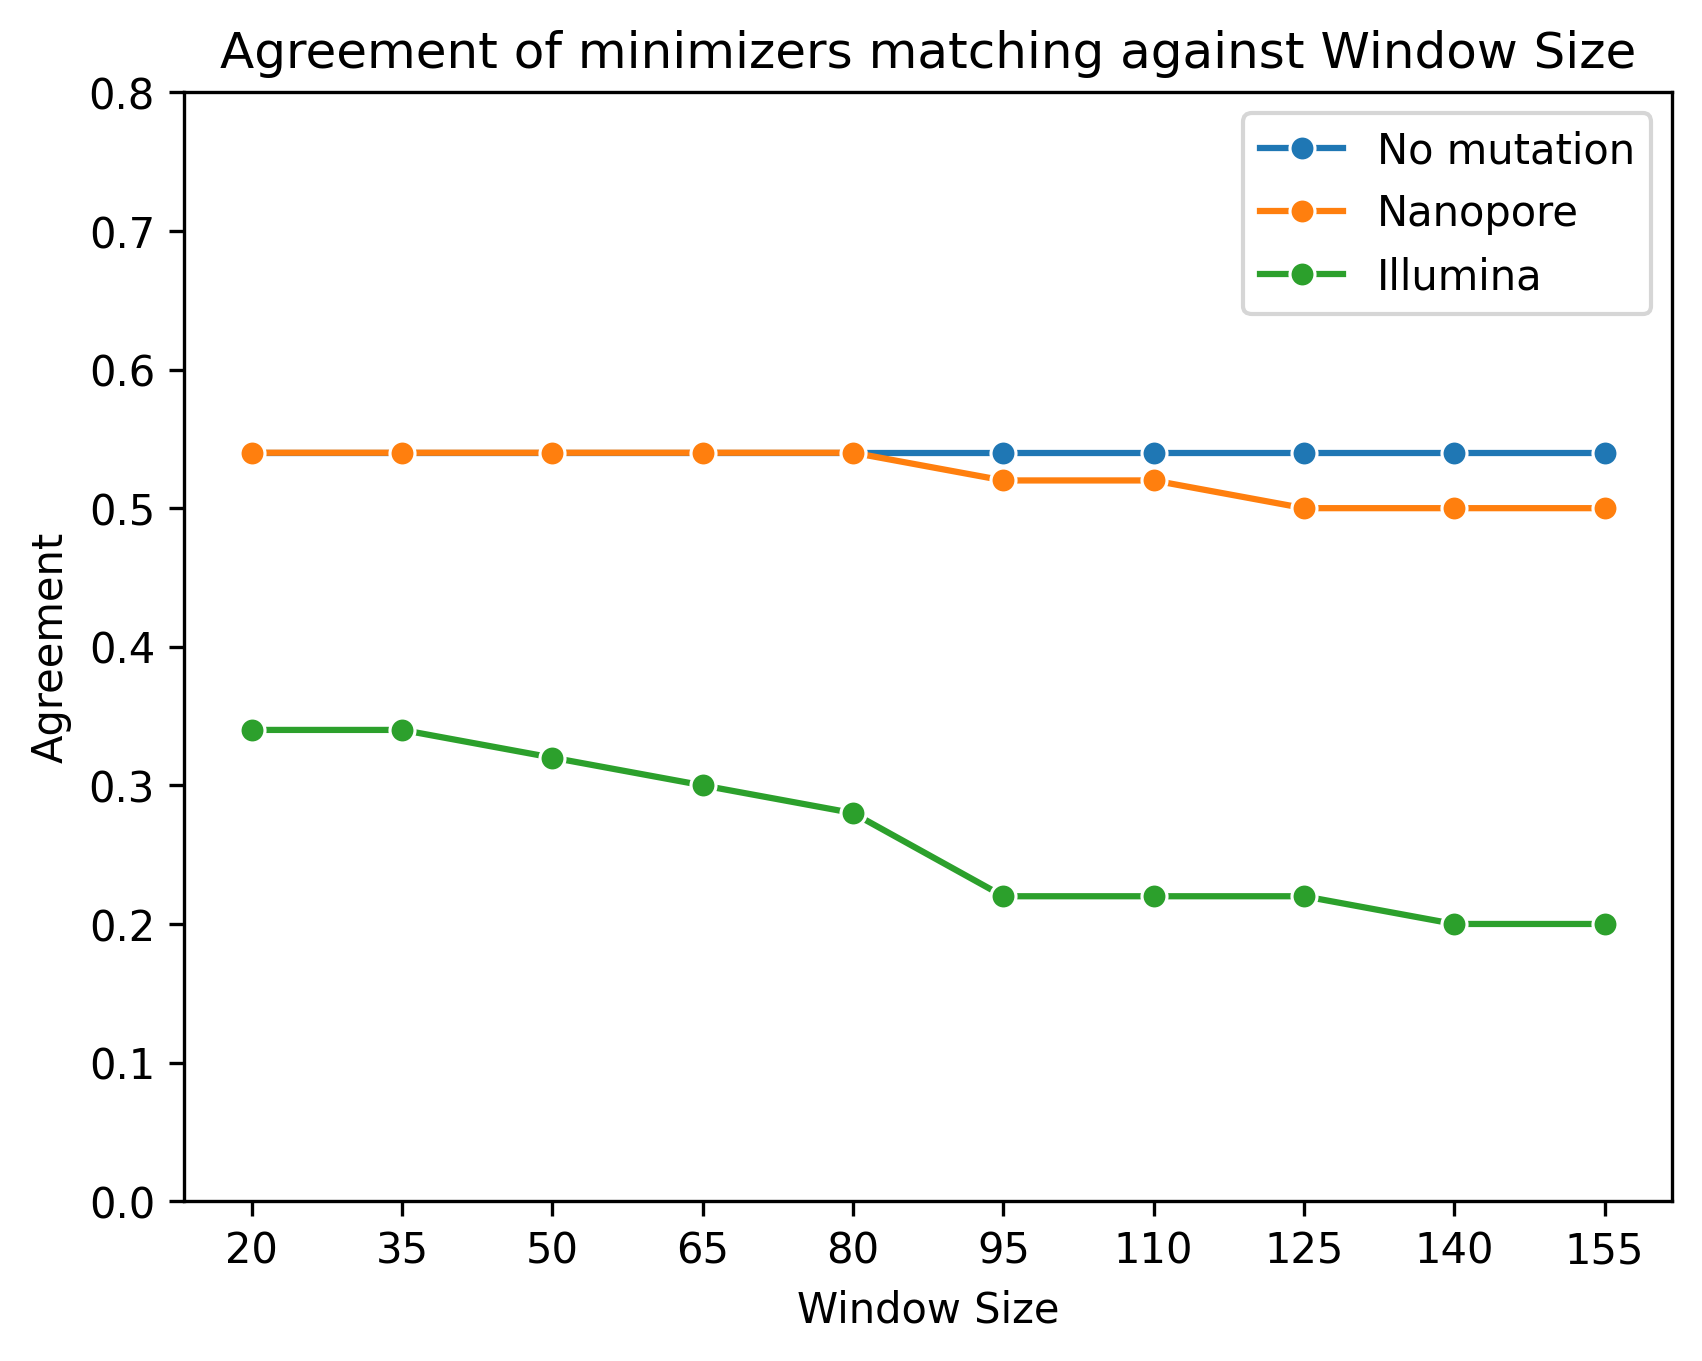
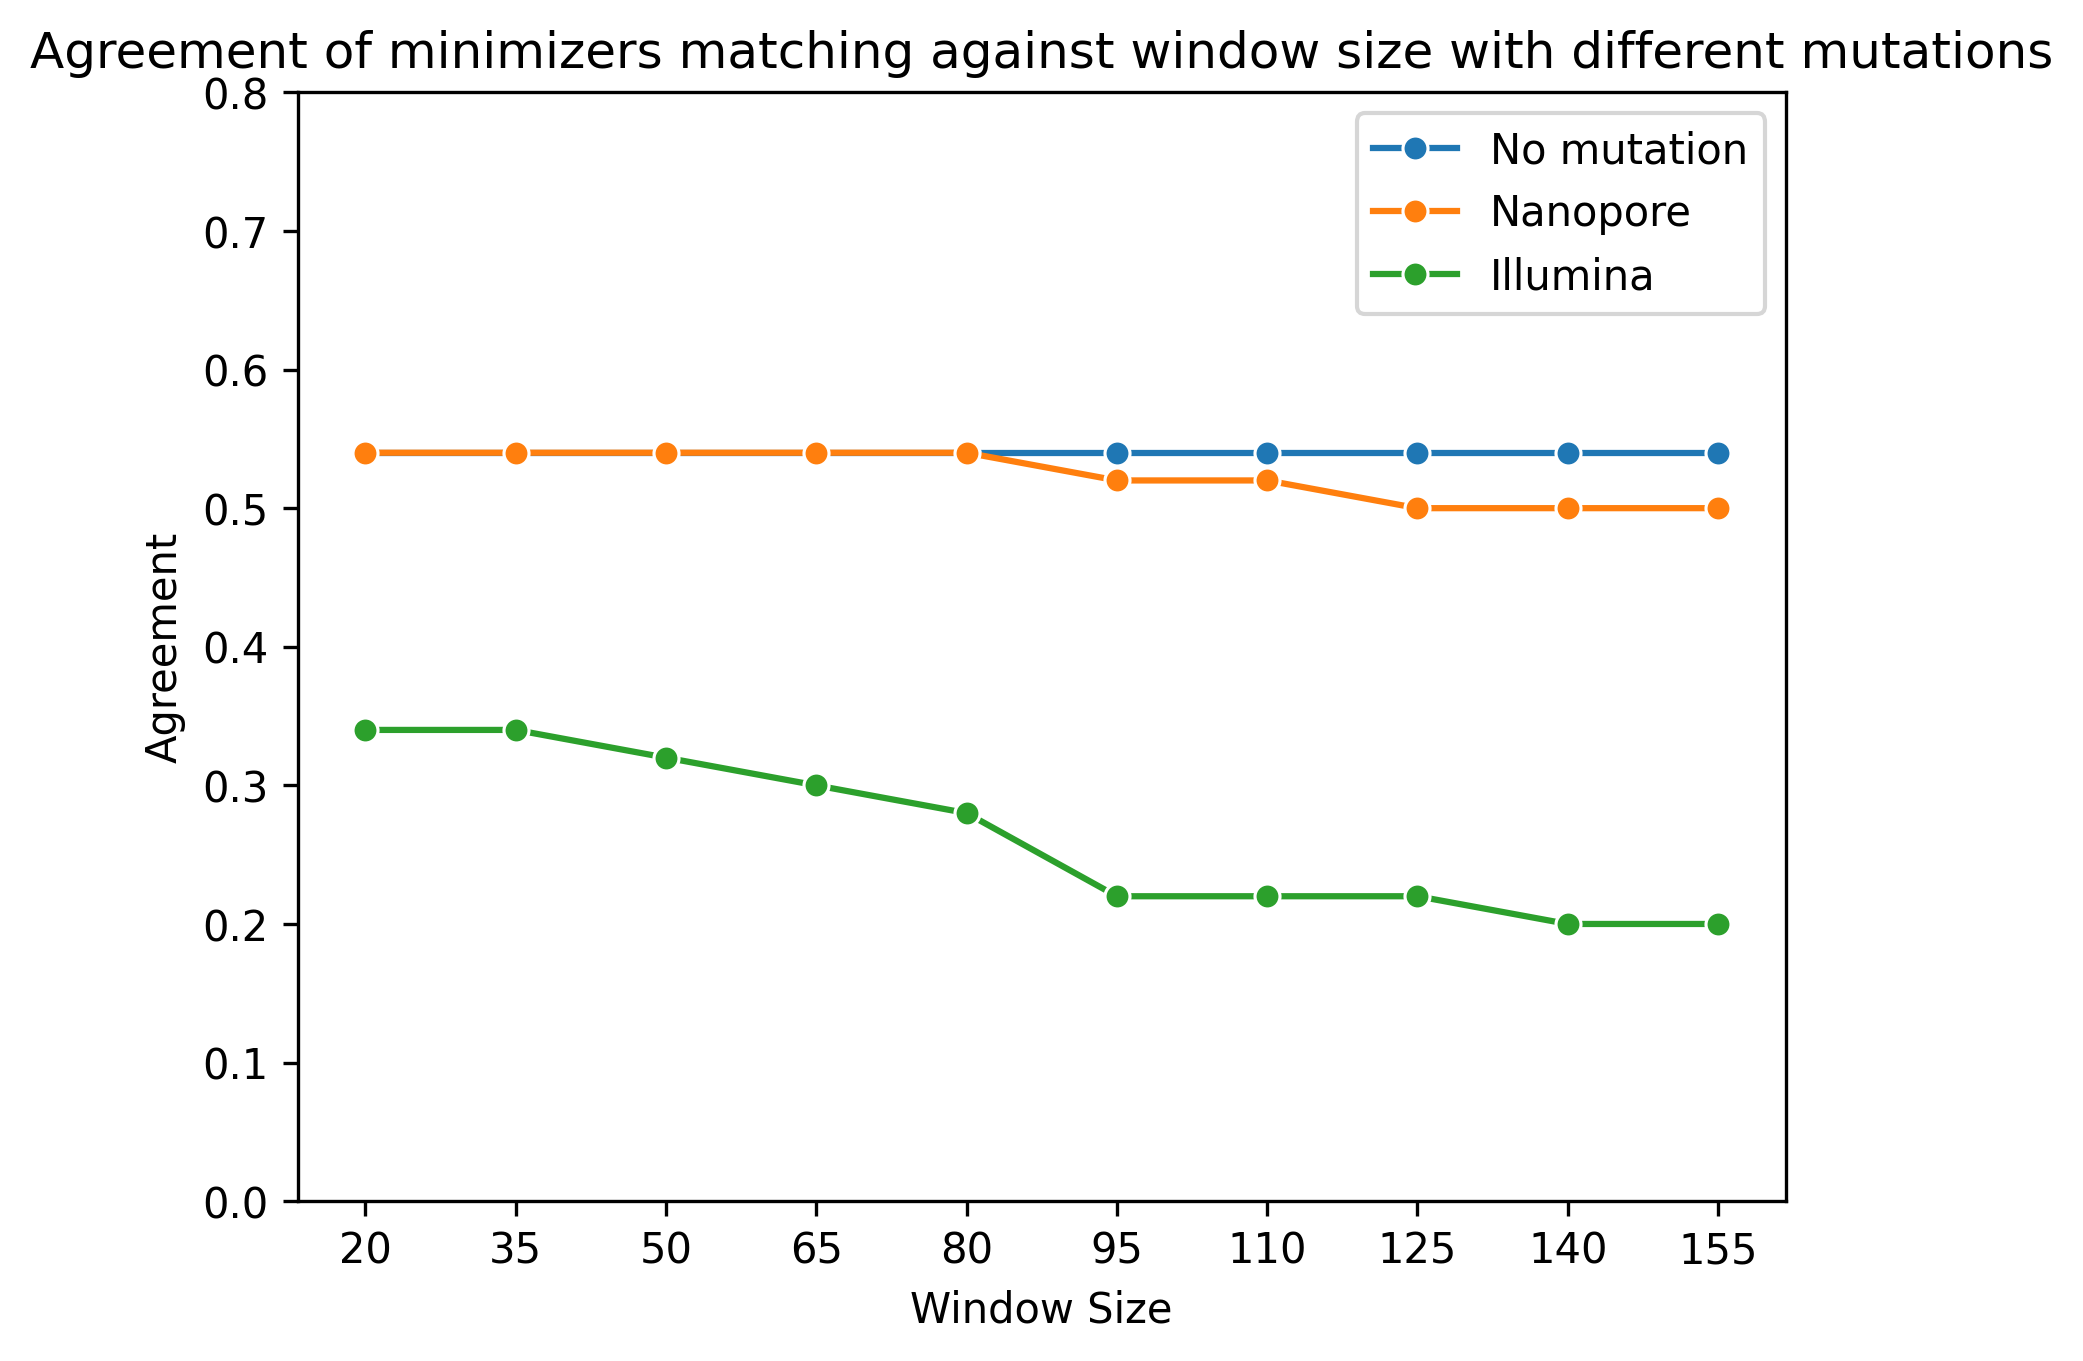
Change plot title

diff --git a/microbiome_test.py b/microbiome_test.py
@@ -515,7 +515,7 @@ def plot_mutations_alignment_free():
     sns.lineplot(data=data, x='x', y='Illumina', label='Illumina', marker='o')
     plt.xlabel('K-mer length')
     plt.ylabel('Agreement')
-    plt.title('Agreement of alignment free sequence matching against K-mer length')
+    plt.title('Agreement of alignment free sequence matching against k-mer length with different mutations')
     plt.ylim(0, 0.65)
     plt.xticks(thresholds)
     plt.savefig(f"graphs/mutations_afsm.png", bbox_inches='tight', dpi=300)
@@ -542,7 +542,7 @@ def plot_mutations_minimizers():
     sns.lineplot(data=data, x='x', y='Illumina', label='Illumina', marker='o')
     plt.xlabel('Window Size')
     plt.ylabel('Agreement')
-    plt.title('Agreement of minimizers matching against Window Size')
+    plt.title('Agreement of minimizers matching against window size with different mutations')
     plt.ylim(0, 0.8)
     plt.xticks(window_sizes)
     plt.savefig(f"graphs/mutations_minimizers.png", bbox_inches='tight', dpi=300)
